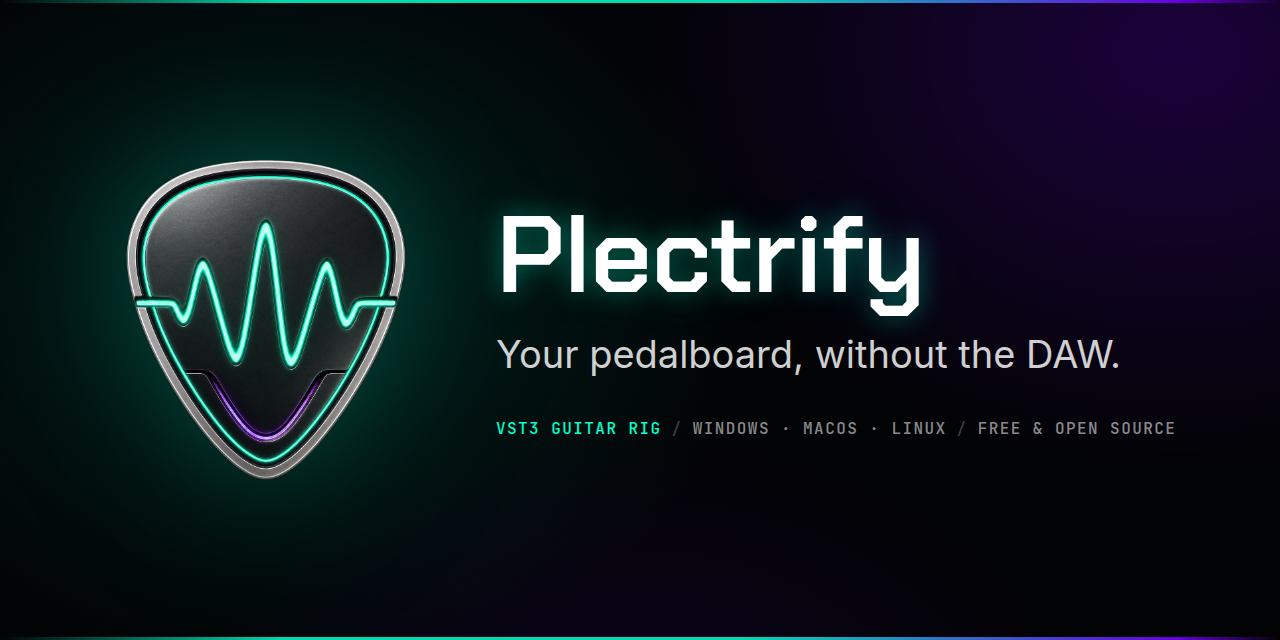
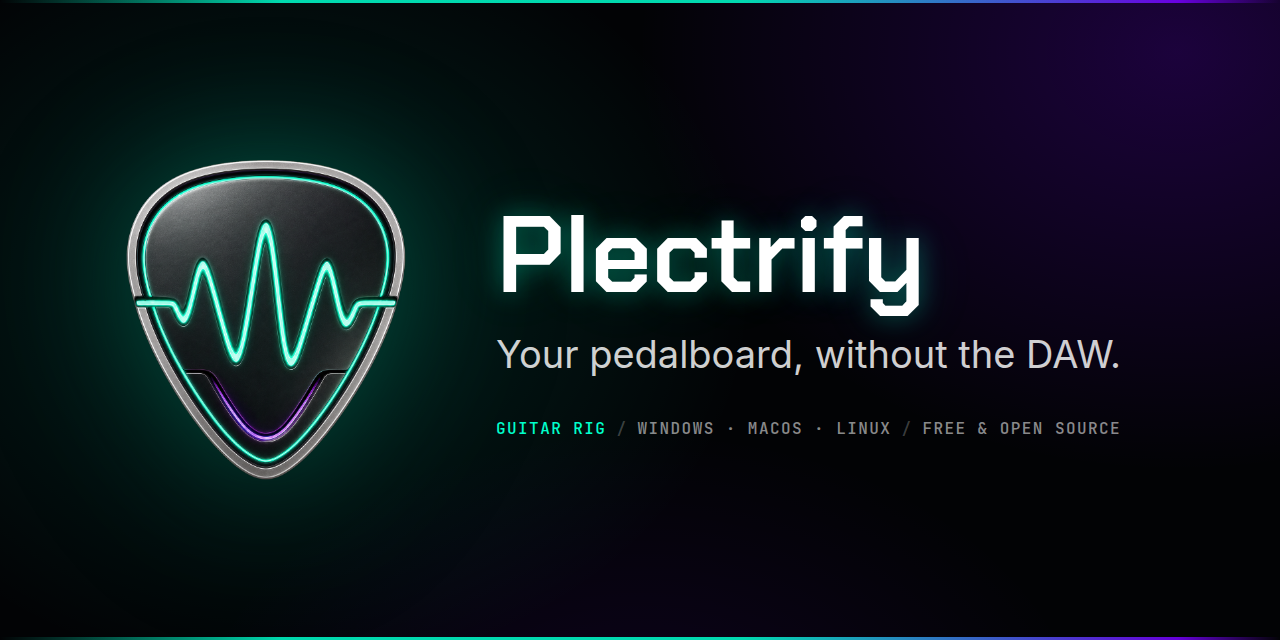
Describe legacy plugin support generally and add Steinberg trademark lines
Public copy no longer frames Plectrify as a "VST3" host: the site
description, social preview and AGENTS.md overview now say "plugins"
or "VST3 and older". The earlier "implement, don't promote" stance is
replaced by keeping copy simple and general, with file extensions
where specificity is needed.

FST is now described as a reverse-engineered header rather than
clean-room, in AGENTS.md, THIRD_PARTY_NOTICES.md, CMakeLists.txt and
legacyPlugins.ts, matching its authors' own account.

Add the Steinberg trademark and non-affiliation notice to the site
footer and README, and reword the notice in THIRD_PARTY_NOTICES.md to
say the app, docs and website do not call the format "VST" or claim
VST compatibility. The release-notes prompt now forbids "VST2"/"VST"
for the older format, even if a commit message uses it.

Changed region(s): [[0.375, 0.6562, 0.9375, 0.6875]]

diff --git a/site/src/lib/site.ts b/site/src/lib/site.ts
@@ -35,9 +35,9 @@ export const IDENTITY = 'Chain your plugins and play.';
  * "amp sim"), because they are what someone looking for this actually types.
  */
 export const DESCRIPTION =
-  'A free guitar rig for Windows, macOS and Linux. Plug in and play through your own VST3 amp sims ' +
-  'and pedals, chained like a real pedalboard, or load thousands of real amp captures from ' +
-  'TONE3000. Tuner, metronome, looper and setlists for practice and for playing live.';
+  'A free guitar rig for Windows, macOS and Linux. Plug in and play through your own amp sim and ' +
+  'pedal plugins, VST3 and older, chained like a real pedalboard, or load thousands of real amp ' +
+  'captures from TONE3000. Tuner, metronome, looper and setlists for practice and for playing live.';
 
 export const REPO = 'https://github.com/patrickiel/plectrify';
 

diff --git a/ui/src/lib/engine/legacyPlugins.ts b/ui/src/lib/engine/legacyPlugins.ts
@@ -1,7 +1,7 @@
 /** The two plugin formats the engine hosts, and the one rule about naming the
     second: it is never called "VST2" or "VST" anywhere a user reads. "VST" is
     Steinberg's registered trademark and this format is hosted through a
-    clean-room header (FST — see THIRD_PARTY_NOTICES.md), so the page says
+    reverse-engineered header (FST — see THIRD_PARTY_NOTICES.md), so the page says
     "plugins" when it means plugins in general and names the *file extension*
     when it has to be specific. Only VST3 is ever called by its name. */
 

diff --git a/site/src/lib/components/Footer.svelte b/site/src/lib/components/Footer.svelte
@@ -95,5 +95,9 @@
       <p>© {new Date().getFullYear()} {PRODUCT}. AGPL-3.0.</p>
       <p>No account, no telemetry, no DRM.</p>
     </div>
+    <p class="text-control-off mt-3 font-mono text-[0.64rem] tracking-[0.06em]">
+      VST and ASIO are registered trademarks of Steinberg Media Technologies GmbH. {PRODUCT} is not affiliated
+      with or endorsed by Steinberg.
+    </p>
   </div>
 </footer>

diff --git a/Assets/SocialPreview.html b/Assets/SocialPreview.html
@@ -220,7 +220,7 @@
       <h1>Plectrify</h1>
       <p>Your pedalboard, without the DAW.</p>
       <div class="strip">
-        <span>VST3 guitar rig</span>
+        <span>Guitar rig</span>
         <span>/</span>
         <span class="quiet">Windows · macOS · Linux</span>
         <span>/</span>

diff --git a/AGENTS.md b/AGENTS.md
@@ -4,9 +4,9 @@ Guidance for AI coding agents working in this repository.
 
 ## Project overview
 
-Plectrify is a **guitar-rig VST3 host** for Windows, macOS (Apple
+Plectrify is a **guitar-rig plugin host** for Windows, macOS (Apple
 Silicon) and Linux (x86-64): a JUCE (C++17) engine that runs a user-ordered chain of VST3
-plugins (amp sims, effects) live from a guitar input. It ships in two
+and older plugins (amp sims, effects; see *Legacy plugins*) live from a guitar input. It ships in two
 shapes from one engine: the standalone application, and a VST3 plugin that
 runs the same rig inside a DAW (`Source/plugin/`; core support — release
 packaging for the plugin is still to come). The entire UI is a Svelte web
@@ -40,7 +40,7 @@ working rack autosaves so it restores on the next launch.
   format (`JUCE_PLUGINHOST_VST=1`: `.dll` on Windows, `.vst` bundles on macOS,
   `.so` on Linux). JUCE's hosting code for that format needs a header
   Steinberg no longer distributes, so the build fetches **FST** (Free Studio
-  Technology, IEM Graz, GPLv3+, a clean-room header; pinned commit) into
+  Technology, IEM Graz, GPLv3+, a reverse-engineered header; pinned commit) into
   `build*/_deps` at configure time and forwards JUCE's two `pluginterfaces/
   vst2.x/` includes to it from a generated directory — no Steinberg-named
   file ever enters the repo. Three rules travel with it, see *Legacy
@@ -82,7 +82,7 @@ Source/               # C++ — vertical slices, each folder is on the include p
   audio/              # RackProcessor (AudioProcessorGraph wrapper), InputRouterProcessor
   plugin/             # the VST3 build: PluginProcessor (AudioProcessor + HostServices),
                       #   PluginEditor (the shared web view in a DAW's window)
-  plugins/            # PluginManager (VST3 scan / cache / async instantiation)
+  plugins/            # PluginManager (plugin scan / cache / async instantiation)
   namplugin/          # Linux only: our JUCE build of Neural Amp Modeler (see Linux below)
   rackui/             # PluginEditorWindow (hosts a plugin's own editor)
   tone3000/             # TONE3000 account, its own browser window, downloads, NAM state codec
@@ -1239,7 +1239,7 @@ page hides the surface behind `HostCapabilities`).
   put whatever that memory last held on the speakers. Metering itself is gated
   on an atomic the wizard arms and drops (and `JuceEngine`'s boot disarms, since
   a reloaded page cannot un-arm what the previous one left set).
-- `PluginManager` (`Source/plugins/`) — VST3-only `AudioPluginFormatManager` +
+- `PluginManager` (`Source/plugins/`) — `AudioPluginFormatManager` (VST3, plus the older format) +
   `KnownPluginList` cached to disk; instantiation is async (message thread);
   scanning runs on a background thread with a crash blacklist
   (dead-man's-pedal file). `KnownPluginList` is internally locked, so the
@@ -2049,11 +2049,13 @@ Windows, `.vst` bundles on macOS, `.so` on Linux — because the freeware amp
 sims and pedals people ask for (LePou, VTar Amps, NaLex…) never got VST3
 builds. JUCE 8.0.14 already carries the hosting code (`VSTPluginFormat`); it
 was off only because it needs Steinberg's withdrawn SDK header, and **FST**
-(IEM Graz, GPLv3+, a clean-room reimplementation that Debian ships in main)
-provides drop-in `aeffect.h`/`aeffectx.h` shims, so JUCE compiles unchanged.
-The feature is deliberately **implemented and not promoted**: no landing-page
-copy, no feature post, no release-notes line beyond the fact. Three rules,
-each load-bearing:
+(IEM Graz, GPLv3+, by its own account a reverse-engineered header, written
+without the SDK, that Debian ships in main) provides drop-in
+`aeffect.h`/`aeffectx.h` shims, so JUCE compiles unchanged. Public copy stays
+**simple and general**: "your plugins" or "VST3 and older", with the file
+extensions where a doc has to be specific, and no feature post or headline of
+its own. Every public surface that says "VST3" or "ASIO" carries the Steinberg
+trademark line (site footer, README). Three rules, each load-bearing:
 
 1. **Never name the format.** User-facing text says "plugins" when generic and
    the **file extension** (`.dll` / `.vst` / `.so`, by `appInfo.platform` via

diff --git a/THIRD_PARTY_NOTICES.md b/THIRD_PARTY_NOTICES.md
@@ -50,17 +50,18 @@ Plectrify also hosts plugins in the older binary format that predates VST3
 (`.dll` files on Windows, `.vst` bundles on macOS, `.so` files on Linux). The
 interface header it is compiled against is **FST**, by IOhannes m zmölnig at
 the Institute of Electronic Music and Acoustics (IEM), Graz —
-<https://git.iem.at/zmoelnig/FST> — a clean-room description of that interface
-written without reference to, and without accepting the licence of, Steinberg's
-withdrawn SDK. FST is licensed under the **GNU General Public License, version 3
+<https://git.iem.at/zmoelnig/FST> — by its authors' own account a reverse-engineered
+description of that interface, written without reference to, and without
+accepting the licence of, Steinberg's withdrawn SDK. FST is licensed under the **GNU General Public License, version 3
 or later**, which is compatible with Plectrify's AGPL-3.0-only. It is a
 header-only library fetched at build time (pinned to the commit named in
 `CMakeLists.txt`) and compiled into the application; the pinned tree ships in
 the corresponding-source archive beside JUCE's.
 
-FST and Plectrify are not affiliated with or endorsed by Steinberg. The format
-is not referred to as "VST" anywhere in Plectrify; VST is a registered trademark
-of Steinberg Media Technologies GmbH.
+FST and Plectrify are not affiliated with or endorsed by Steinberg. Plectrify's
+app, documentation and website do not call that format "VST" or describe it as
+VST compatible; VST is a registered trademark of Steinberg Media Technologies
+GmbH.
 
 ## Steinberg ASIO SDK
 

diff --git a/packaging/release-notes-prompt.md b/packaging/release-notes-prompt.md
@@ -32,6 +32,9 @@ Rules:
 - Merge commits that belong to one feature into a single bullet.
 - Plain, concrete language; present tense ("Adds…", "Fixes…"); no marketing
   tone, no exclamation marks, no emoji.
+- Never write "VST2", "VST" or "VST compatible" for plugins older than VST3,
+  even if a commit does: they are "older plugins", or by file extension (`.dll`,
+  `.vst`, `.so`). "VST3" is fine for VST3 itself.
 - Scale to the release: a small release may be just Highlights and a couple of
   bullets; never pad.
 - Output the markdown only — no preamble, no closing remarks, and no code

diff --git a/README.md b/README.md
@@ -140,3 +140,6 @@ Free software under the
 [GNU Affero General Public License, version 3](LICENSE). Every release ships a
 checksummed source archive of the exact Plectrify and patched JUCE code it was
 built from.
+
+VST and ASIO are registered trademarks of Steinberg Media Technologies GmbH.
+Plectrify is not affiliated with or endorsed by Steinberg.
